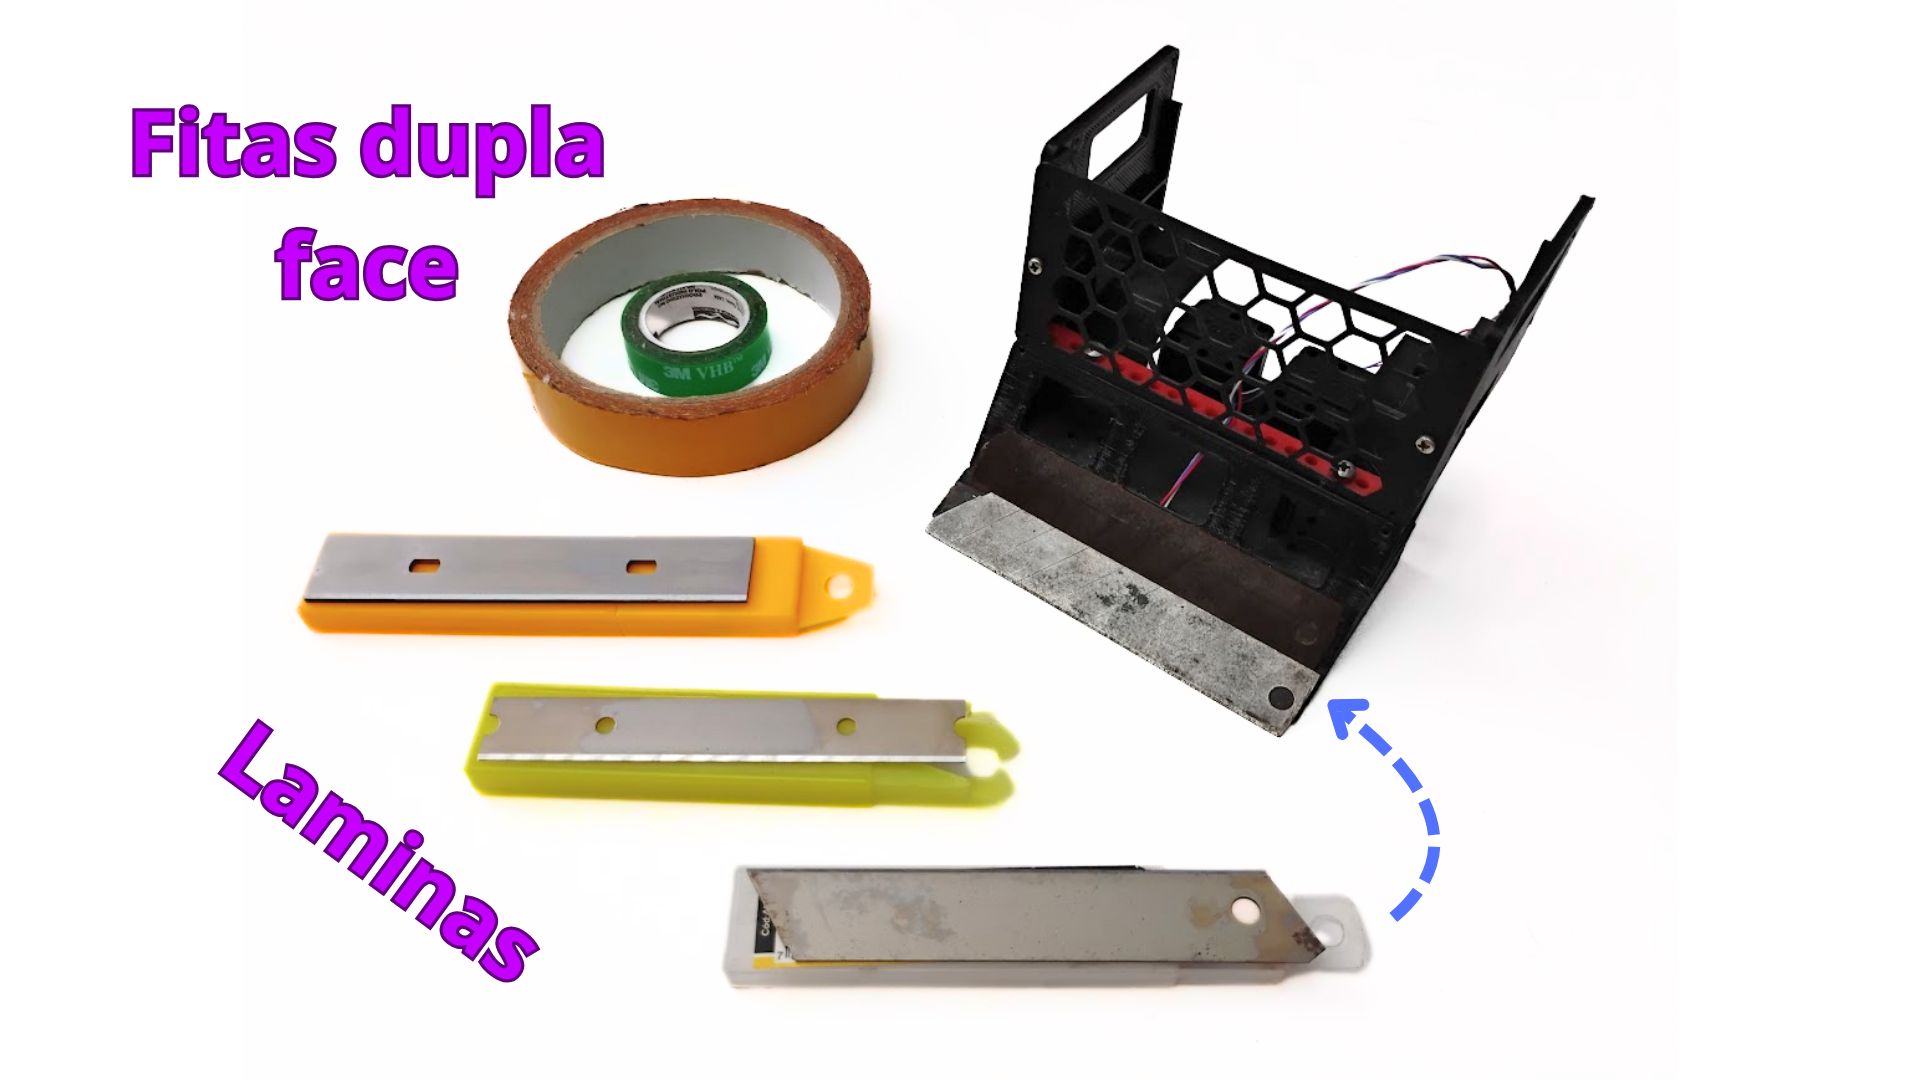
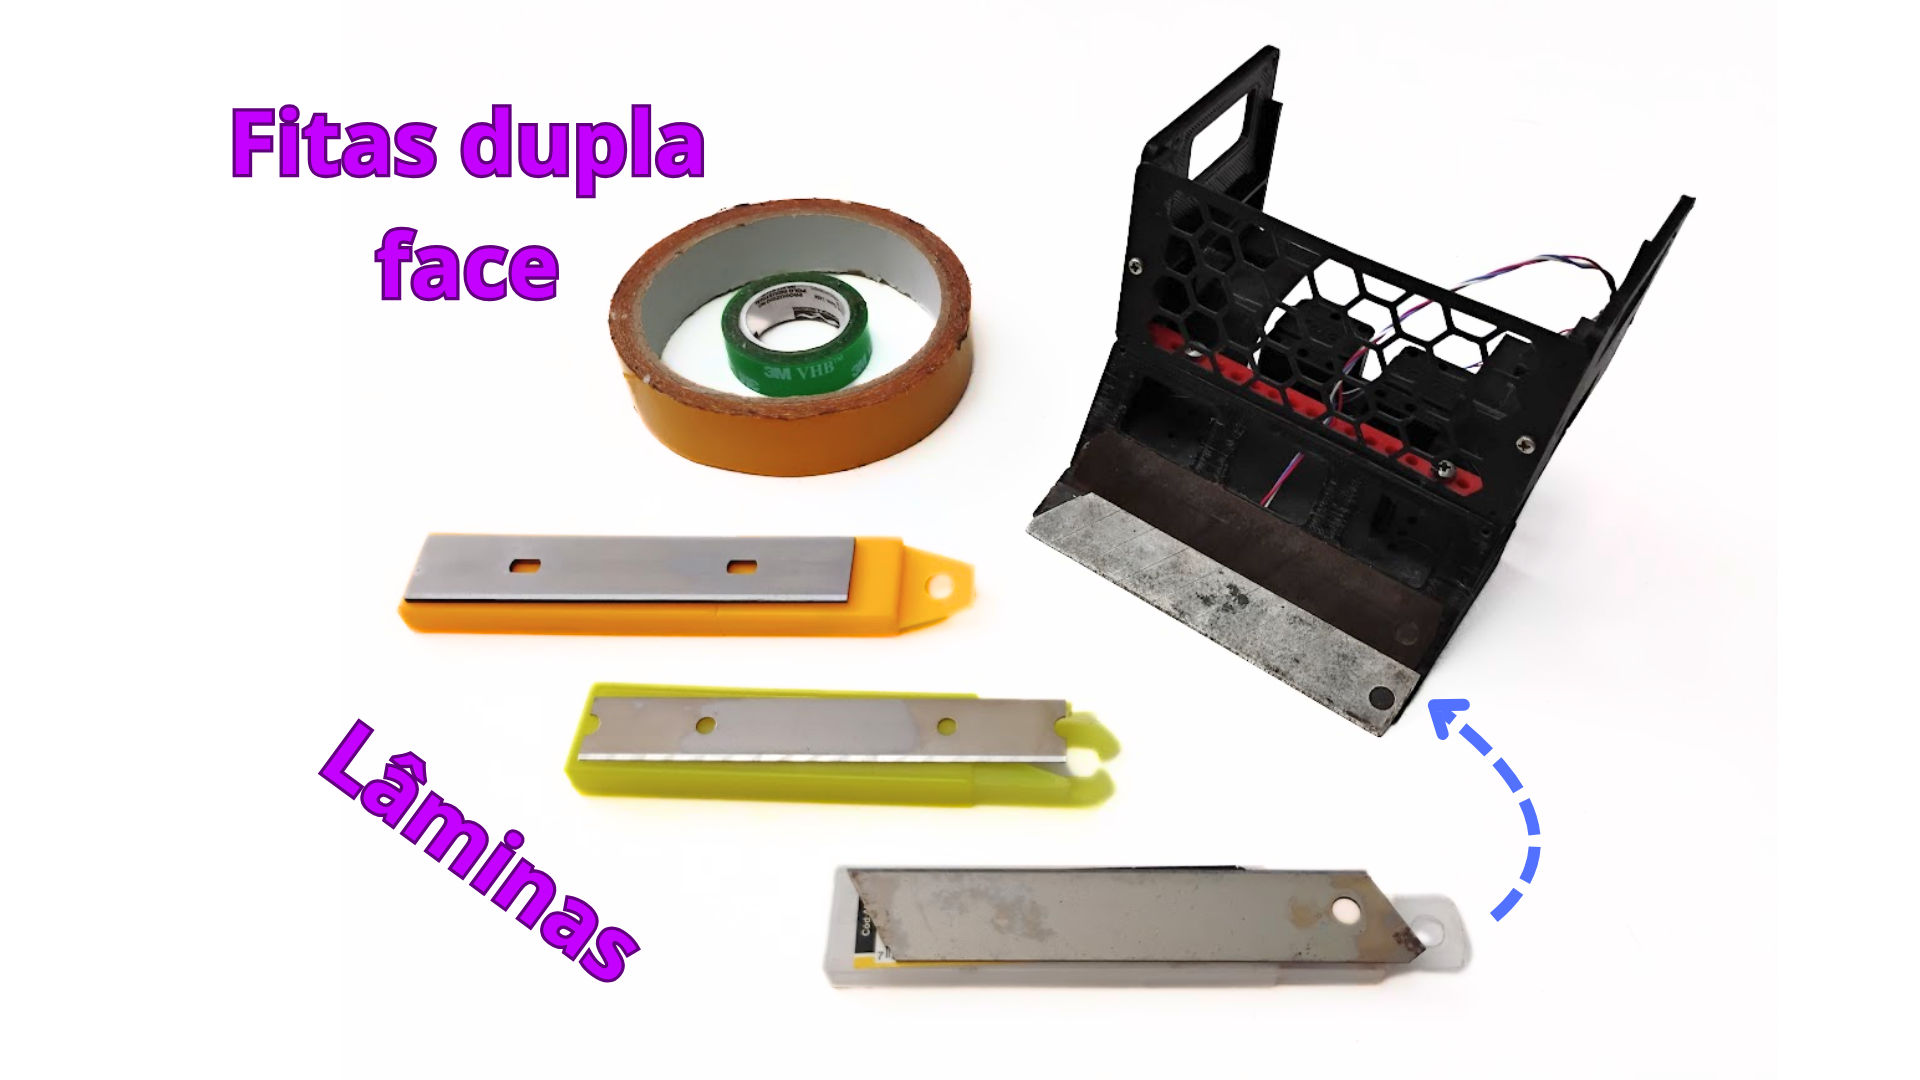
readme, artigos e laminas

Changed region(s): [[0.0625, 0.0306, 0.9062, 0.9167], [0.375, 0.7944, 0.5, 0.9167], [0.3125, 0.5194, 0.3438, 0.55]]

diff --git a/tutoriais/blade.md b/tutoriais/blade.md
@@ -14,11 +14,41 @@ Abaixo, destaquei 3 cenários comuns de rampagem, com base na posição do conta
 ![](../img/rampagem_caso3.png)
 
 2. (3) **Rampa contra rampa**  
-   Nesse caso, acontece um verdadeiro duelo de lâminas: vence quem estiver com o nivelamento mais preciso. Mas não é só isso — mesmo com um bom ajuste, é comum que existam regiões menos rentes ao chão, que acabam sendo os pontos mais vulneráveis. Aí entra um pouco de sorte… ou, no caso dos robôs RC, a experiência do piloto em saber como proteger seus pontos fracos e explorar os do adversário.
+   Nesse caso, acontece um verdadeiro duelo de lâminas: vence quem estiver com um melhor nivelamento. Mas não é só isso — mesmo com um bom ajuste, é comum que existam regiões menos rentes ao chão, que acabam sendo os pontos mais vulneráveis. Aí entra um pouco de sorte… ou, no caso dos robôs RC, a experiência do piloto em saber como proteger seus pontos fracos e explorar os do adversário.
+#### (3-a) Capotagem do oponente  
+
+O robô atacado desliza sobre a rampa do oponente e acaba girando até virar de cabeça para baixo — uma **cambalhota**. De acordo com as regras, um robô virado perde o round.
+
+**Fatores que favorecem a capotagem:**
+
+- **Do lado do robô atacado:**  
+  Centro de massa muito alto torna o robô mais instável e fácil de virar.
+  
+- **Do lado do robô atacante:**  
+  Superfícies metálicas lisas na "face" do robô ajudam o oponente a escorregar e desequilibrar.
+
+![](../img/face.png)
+
+#### (3-b) Robôs travados entre laminas  
+
+O contato entre as rampas pode gerar um **encaixe** ou travamento entre os robôs. Nesses casos, o desfecho depende de fatores como torque, tração e estratégia.
+
+Esse tipo de situação pode:
+- Levar a um impasse momentâneo;
+- Ser resolvido com manobras;
+- Terminar com um rompimento súbito, geralmente favorecendo o robô mais estável ou forte.
 
 ---
 
-## 🔧 Como melhorar a rampagem:
+## Como escapar de uma rampagem:
+
+Escapar de uma rampagem é possivel, em geral a velocidade é o maior aliado, para fazer movimentações rápidas antes saindo do campo de ataque do robô inimigo antes que seja empurrado para fora. No caso 1 é praticamente impossivel, porque gerlmente os robôs não têm sensores atrá, e mesmo que o robô rampado preceba ele precisaria fazer um movimento rápido para frente e para lateral antes que esteja na borda do dohyo, limitando muito o seu espaço de manobra, alem disso dependendo do contato o pode perder o contato das rodas com o chão ficando totalmente a merce do atacante. No caso (2) se mover um pouco para o lado oposto e para frente pode ser a solução, mas em algum casos os robôs pode ficar em looping girando em circulos. No caso (3-b) é uma disputa de torque, quem for mais forte tem mais chance de empurrar o oponentes para fora. Mas o efeito de rotação também pode acontecer porque eles não estão perfeitamente um de frente para o outro gerando uma parcela de rotação. Nesse caso um dos robôs pode dar uma penequa ré e depois reatacar, podendo ficar numa posição mais vaforável.
+
+
+
+---
+
+## Como melhorar a rampagem:
 
 - **Qualidade da lâmina**  
   Quanto mais afiada e flexível a lâmina, maior a chance de conseguir "entrar por baixo" do adversário. Materiais finos e resistentes são os mais indicados.

diff --git a/tutoriais/articles.md b/tutoriais/articles.md
@@ -1,0 +1,9 @@
+# Artigos academicos
+
+
+# MegaSumo
+- **Research of Hybrid Magnetic System Used in
+Autonomous MegaSumo Robots** https://www.ijmerr.com/uploadfile/2021/0624/20210624100758933.pdf  
+- **Research of Various Magnetic Systems Used in
+Autonomous MegaSumo Robots** https://www.ijmerr.com/uploadfile/2020/0417/20200417064856590.pdf  
+

diff --git a/README.md b/README.md
@@ -29,6 +29,7 @@ Um guia para começar da melhor forma nas competições de sumô de robôs.
 ### Outros
 - 🛒 [Lojas recomendadas](./lojas.md)
 - 💻 [Aplicativos](./apps.md)
+- 📖 [Artigos academicos](./tutoriais/articles.md)
 
 
 ## Introdução
